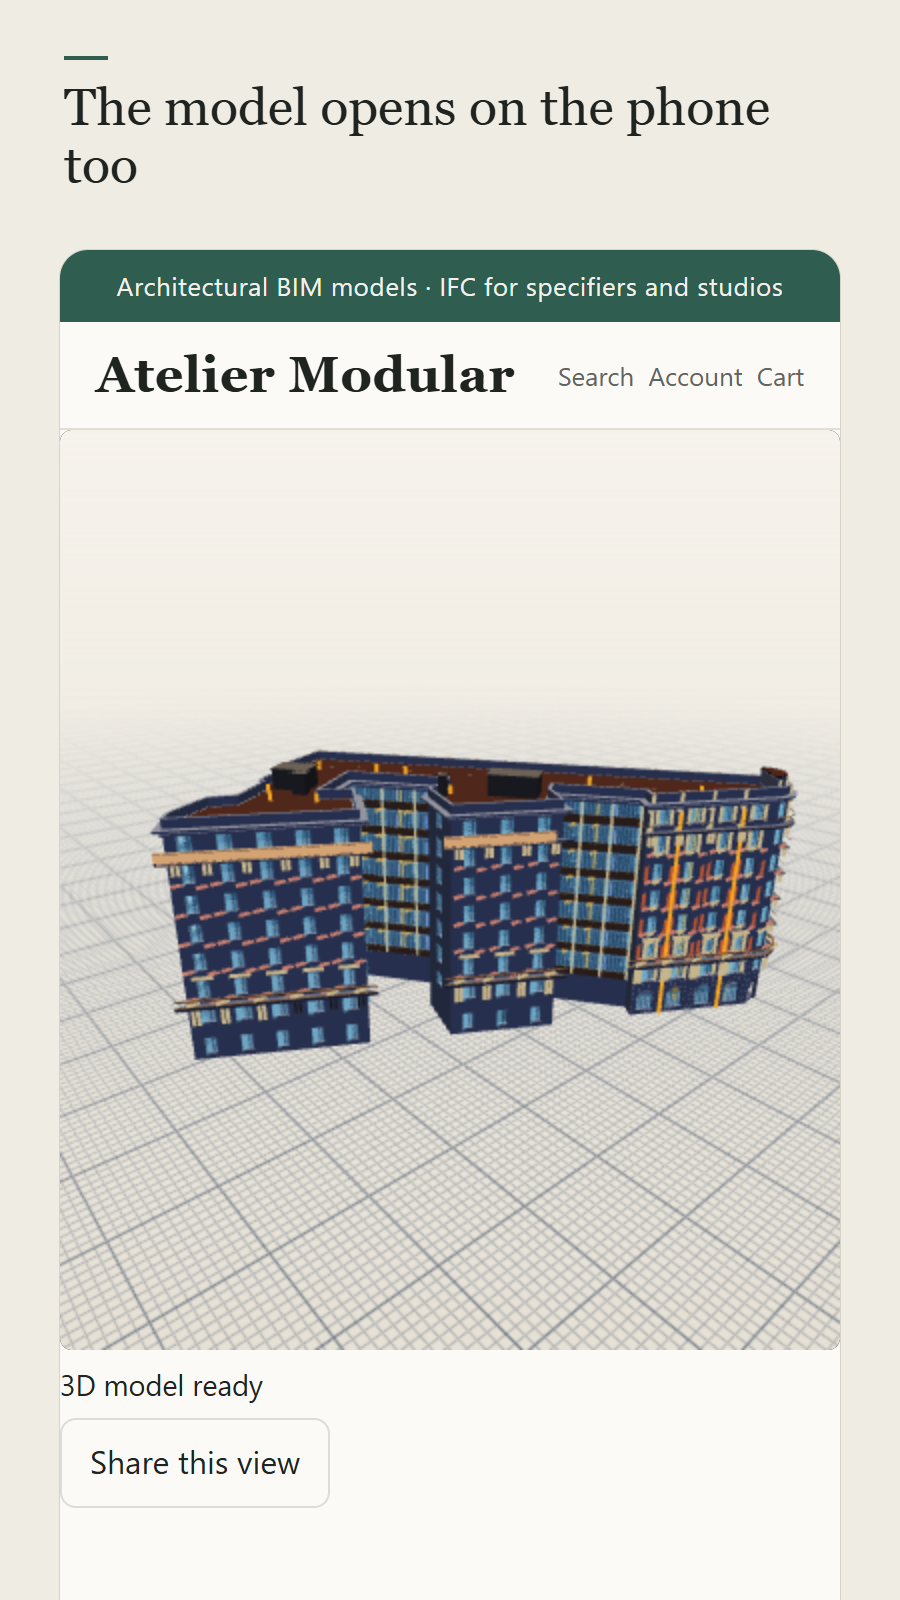
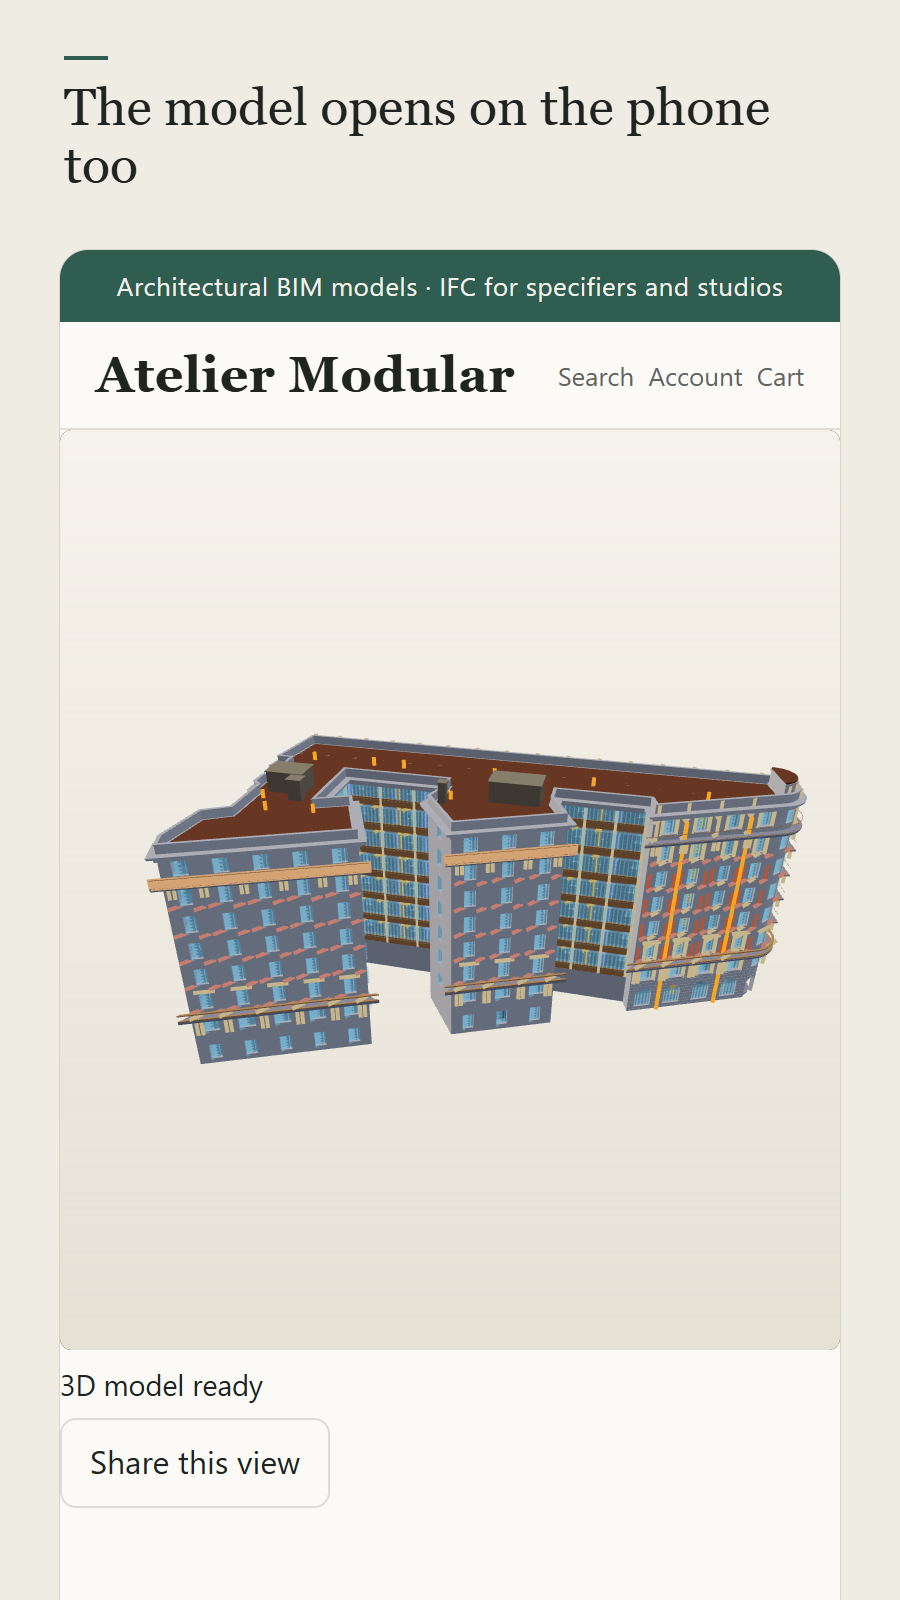
feat(shopify): listing v3 images without floor grid, daylight finish, compare table visible

Changed region(s): [[0.0622, 0.4375, 0.9333, 0.8438]]

diff --git a/integrations/shopify/listing/v3/SUBMIT.md b/integrations/shopify/listing/v3/SUBMIT.md
@@ -153,6 +153,13 @@ alt text: drop `frame()` in `shoot.mjs`.
 | Screenshot 6 | `desktop-6-planset.png` | Oriental Pearl Tower model with a plan set block listing drawings and model per licence, and a View in your space button |
 | Mobile 1–3 (optional) | `mobile-1-explore.png`, `mobile-2-quote.png`, `mobile-3-downloads.png` (900×1600) | Wukang Mansion with its rooms; hotel block quote with a selected curtain wall; World Financial Center with gated downloads |
 
+The screenshots use the shop setting `ifcvo.config = {"grid": false, "finish": "daylight"}`
+(no floor grid; IFC colours under soft daylight). That option is new in this PR: it needs the
+viewer deployed and SDK 1.20 published and pinned in `assets/ifcvo.js` before a live store shows
+it (the images were captured with `LOCAL_APP` pointing the harness at `vite` in this repo).
+Until then a store renders the grid and studio light, as before. Set the same config on the
+review dev store so the reviewer sees what the screenshots show.
+
 The previous image set is kept in `previous/`. Wukang Mansion is an owner-supplied IFC that is
 not public: the harness opens the page on a tiny public file and swaps the Wukang file in through
 the SDK (as a visitor dropping a file would); everything else on the page is the real block.
